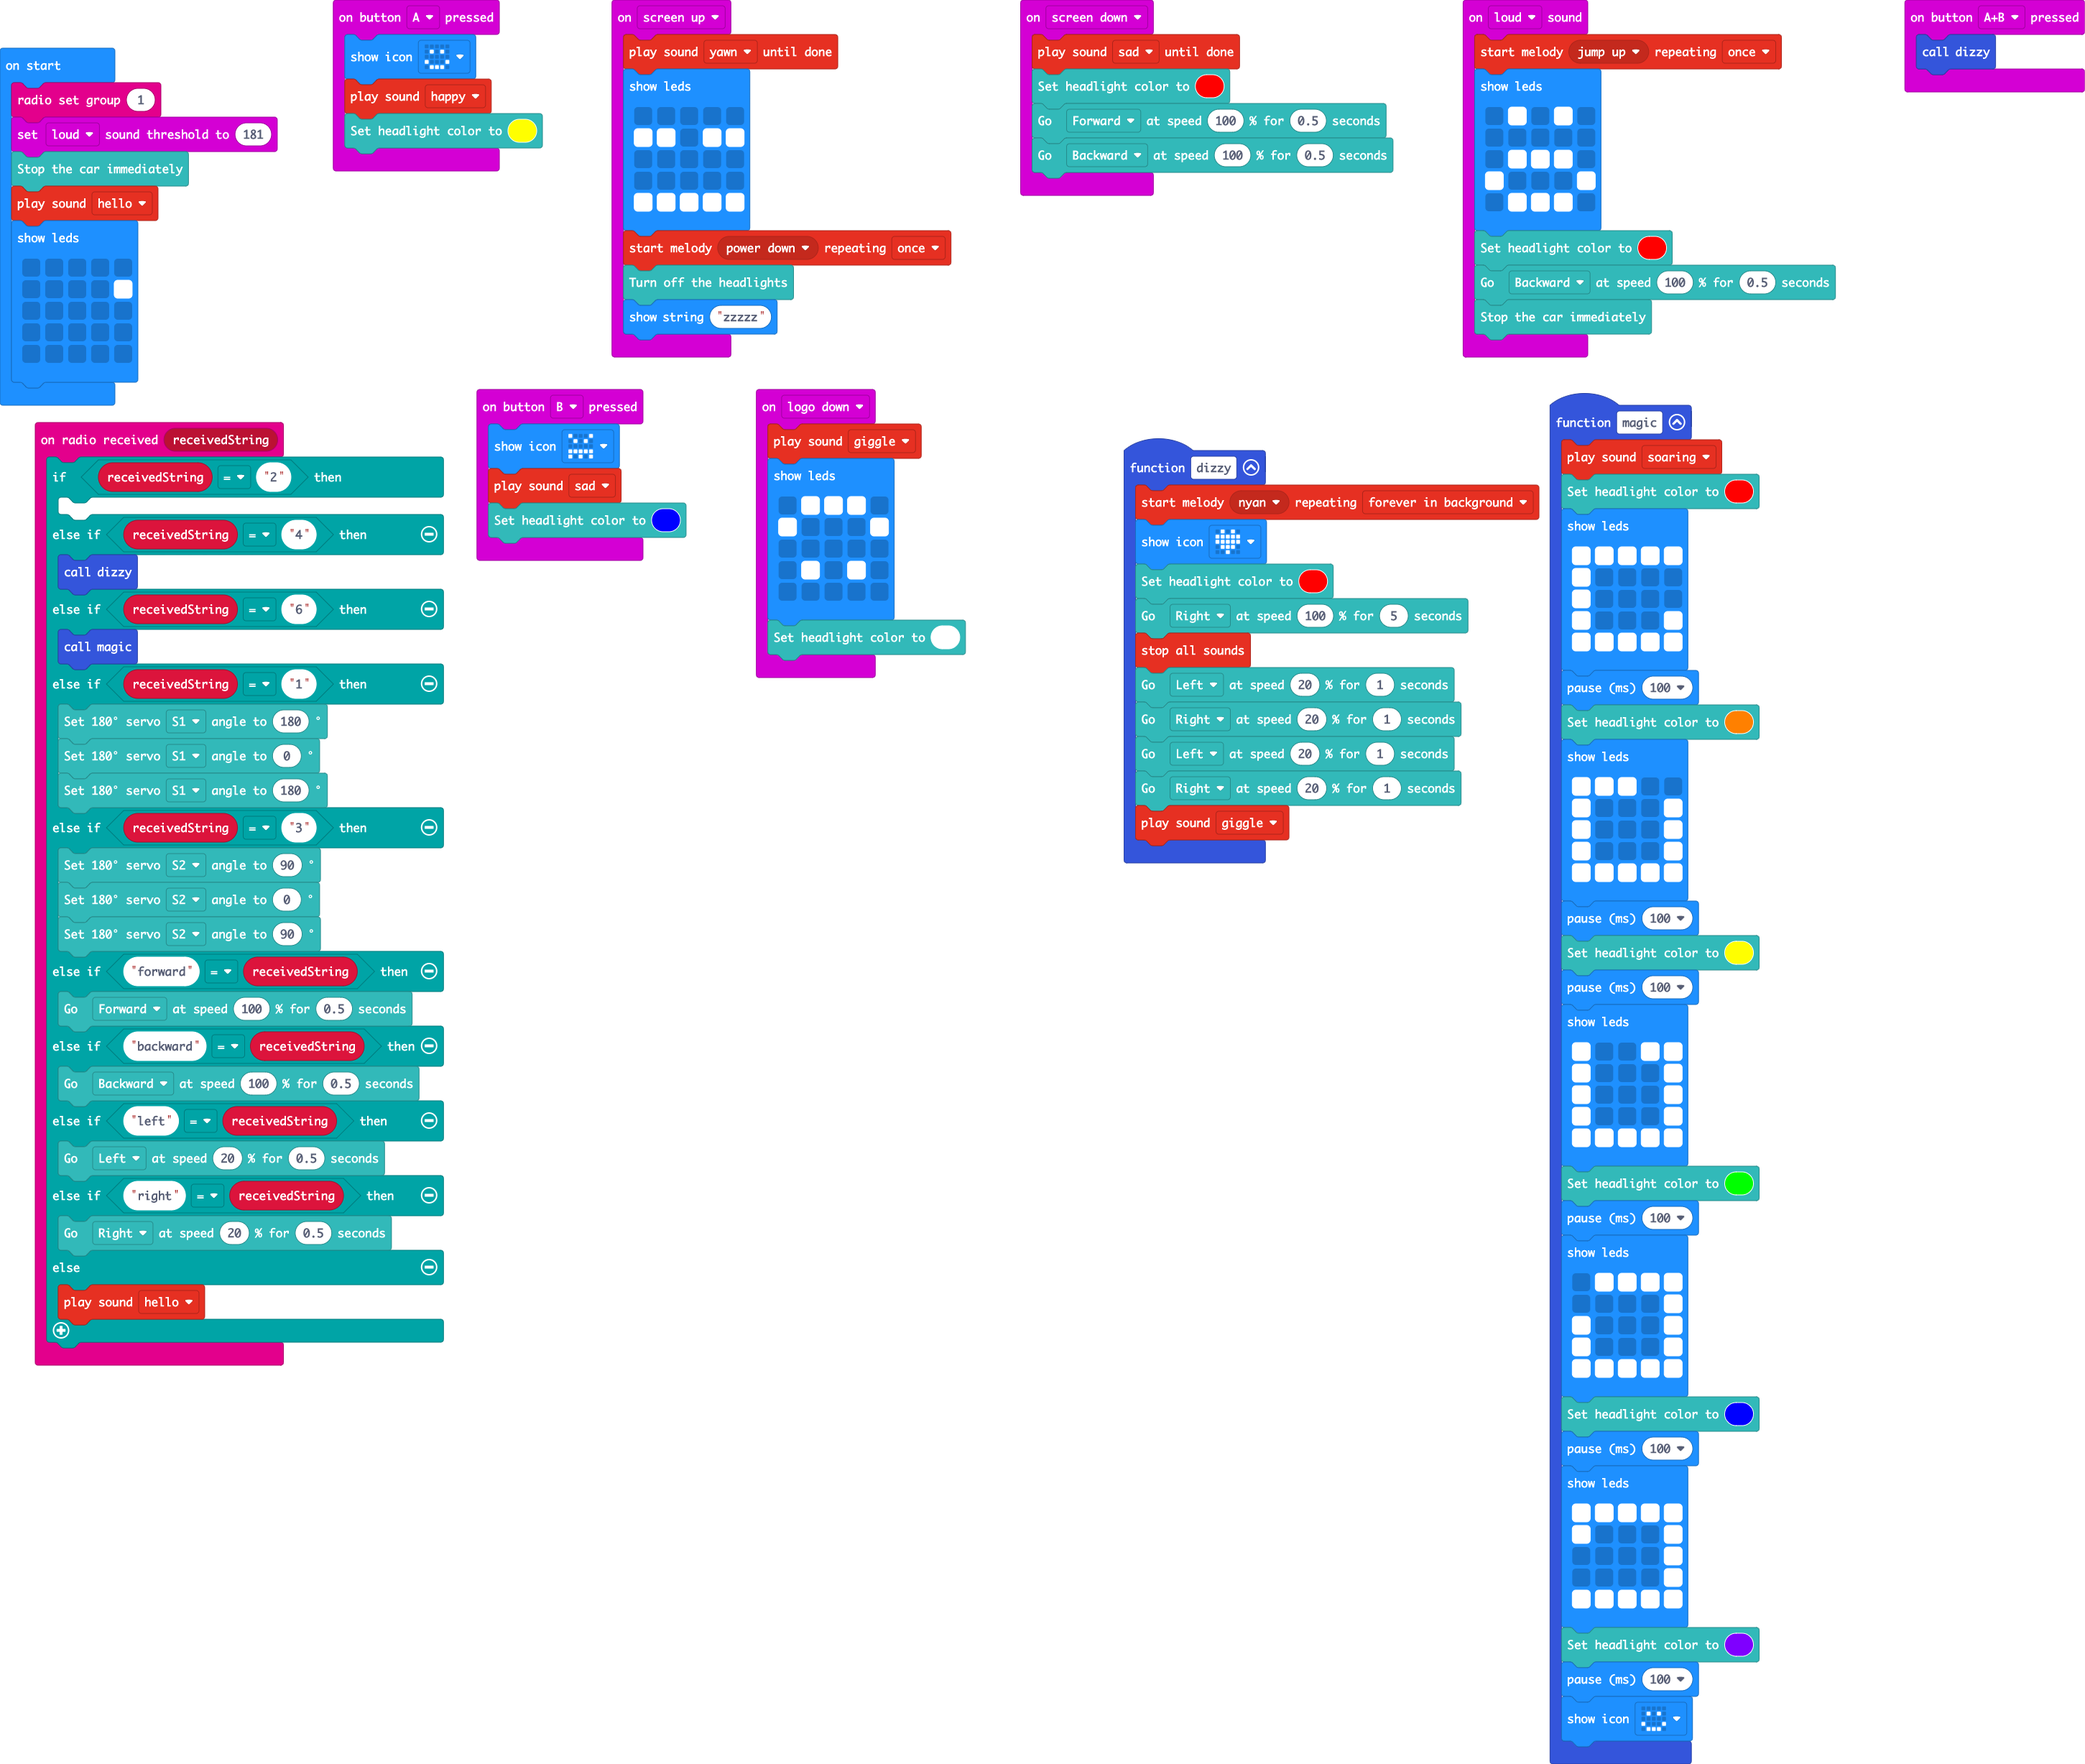
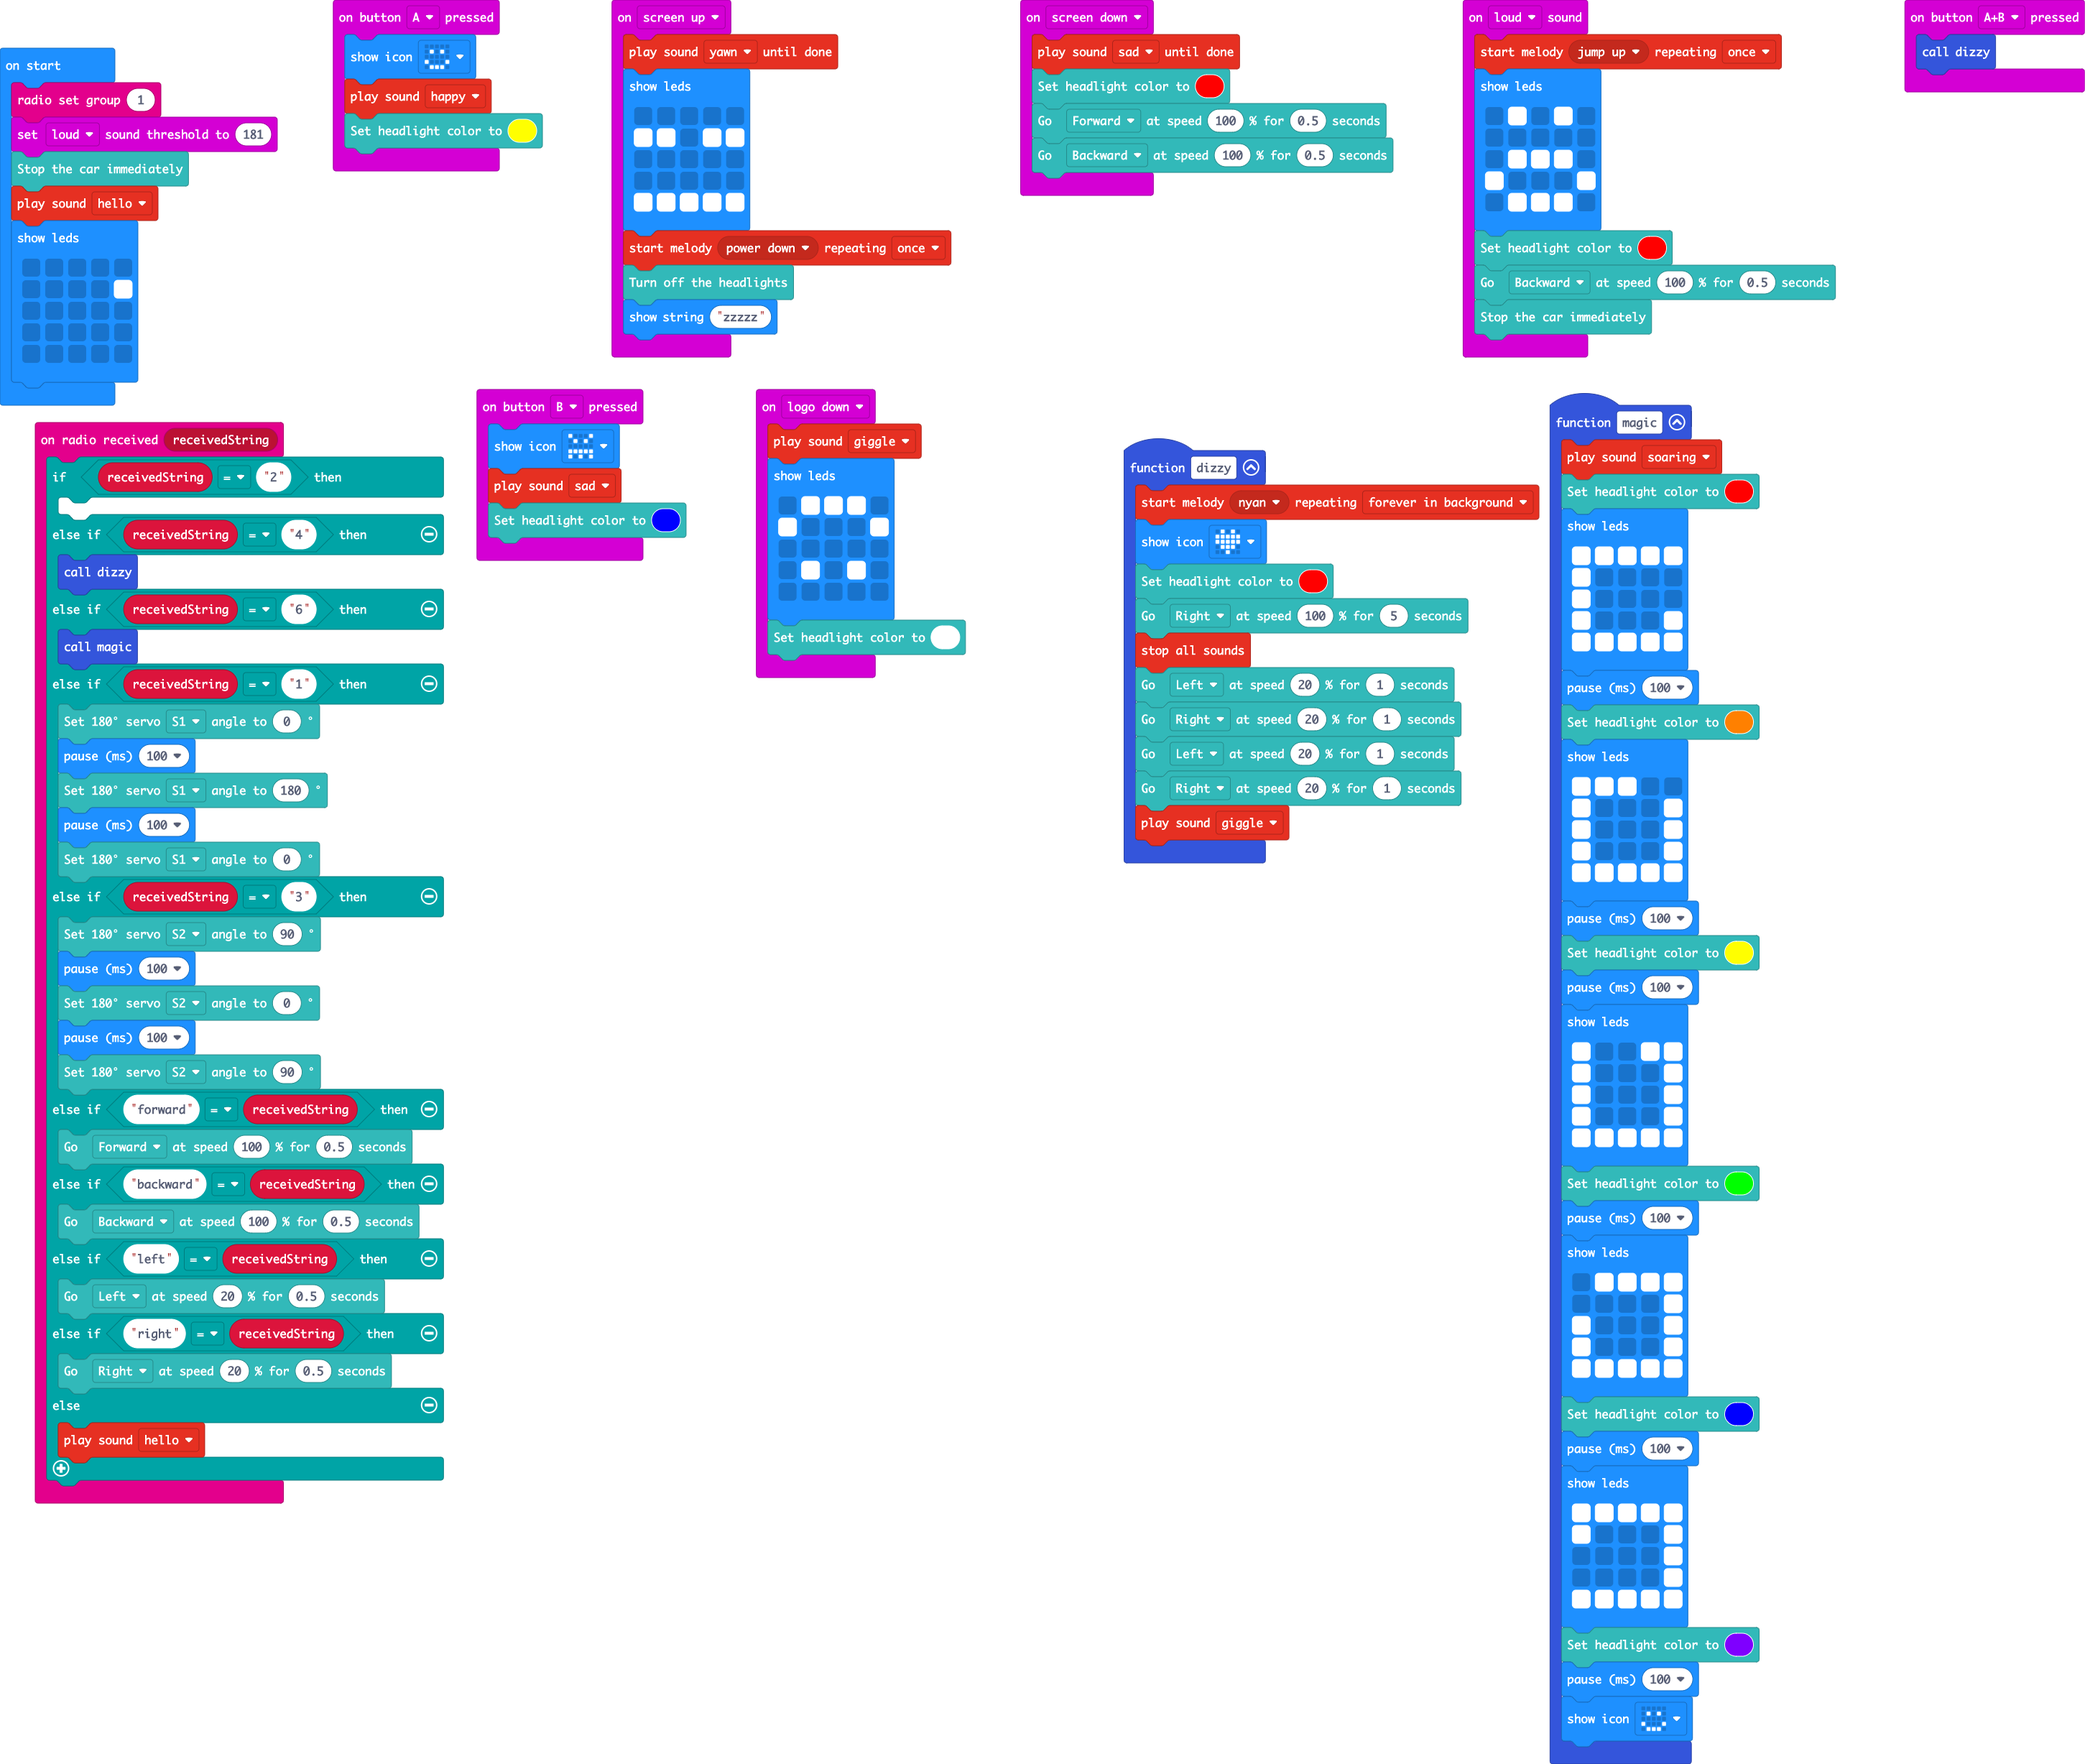
Update main.blocks, main.ts

Changed region(s): [[0.0, 0.4024, 0.2171, 0.8668]]

diff --git a/main.ts b/main.ts
@@ -109,12 +109,16 @@ radio.onReceivedString(function (receivedString) {
     } else if (receivedString == "6") {
         magic()
     } else if (receivedString == "1") {
-        TPBot.setServo180(TPBot.ServoList.S1, 180)
         TPBot.setServo180(TPBot.ServoList.S1, 0)
+        basic.pause(100)
         TPBot.setServo180(TPBot.ServoList.S1, 180)
+        basic.pause(100)
+        TPBot.setServo180(TPBot.ServoList.S1, 0)
     } else if (receivedString == "3") {
         TPBot.setServo180(TPBot.ServoList.S2, 90)
+        basic.pause(100)
         TPBot.setServo180(TPBot.ServoList.S2, 0)
+        basic.pause(100)
         TPBot.setServo180(TPBot.ServoList.S2, 90)
     } else if ("forward" == receivedString) {
         TPBot.setTravelTime(TPBot.DriveDirection.Forward, 100, 0.5)
